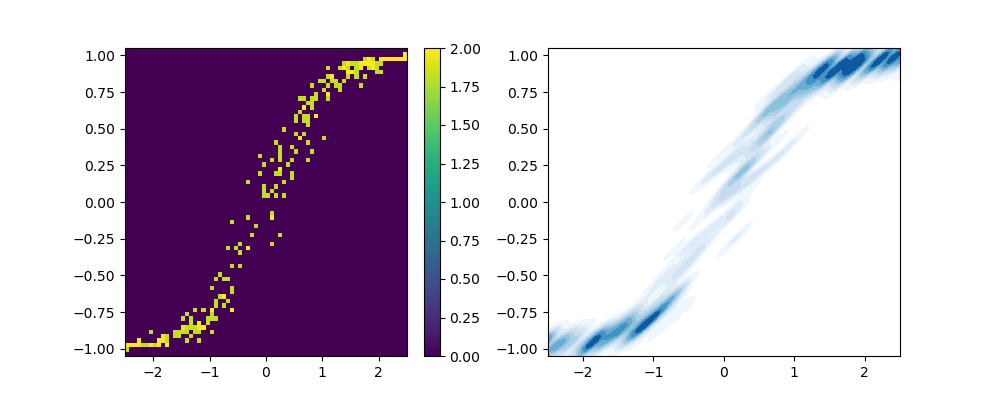
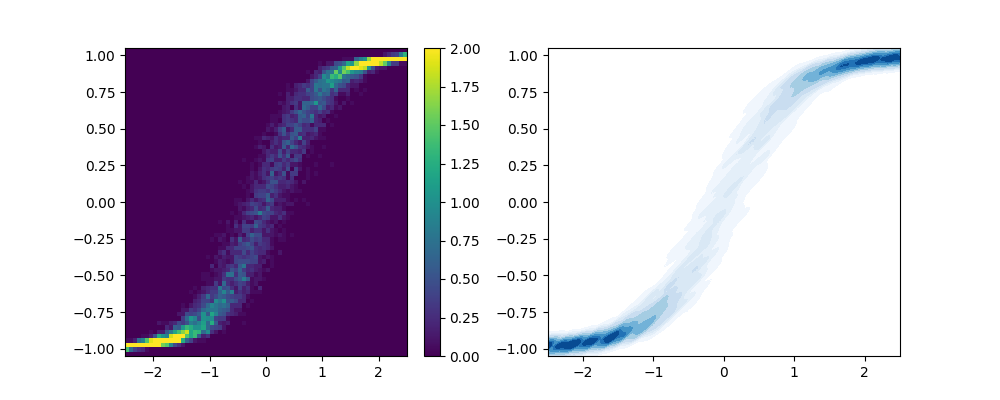
generic commit

diff --git a/scripts/transport/kvae_flow.py b/scripts/transport/kvae_flow.py
@@ -92,10 +92,10 @@ class Comp_transport_model:
         return z_mean
 
 
-    def map_var(self, x_mu, y_eta, y_mean, Lambda_var, X_var, fit_kernel):
+    def map_var(self, x_mu, y_eta, y_mean, Lambda_var, X_var, y_var, fit_kernel):
         if not self.approx:
             y_eta = shuffle(y_eta)
-        x_var = torch.concat([x_mu, y_eta, y_mean], dim=1)
+        x_var = torch.concat([x_mu, y_eta, y_mean + y_var], dim=1)
         Lambda_var = Lambda_var
 
         z_var = fit_kernel(X_var, x_var).T @ Lambda_var
@@ -121,7 +121,7 @@ class Comp_transport_model:
             y_var = 0 * y_mean
 
         z_mean = self.map_mean(x_mu, y_mean, Lambda_mean, X_mean, fit_kernel)
-        z_var = self.map_var(x_mu, y_eta, y_mean, Lambda_var, X_var,  fit_kernel)
+        z_var = self.map_var(x_mu, y_eta, y_mean, Lambda_var, X_var,  y_var, fit_kernel)
         z = z_mean + z_var
 
         y_approx = y_mean + y_var
@@ -181,7 +181,7 @@ class CondTransportKernel(nn.Module):
         if self.approx:
             self.Y_mean = geq_1d(torch.tensor(base_params['Y_mean'], device=self.device, dtype=self.dtype))
             self.Y_var = geq_1d(torch.tensor(base_params['Y_var'], device=self.device, dtype=self.dtype))
-            self.X_var = torch.concat([self.X_mu, self.Y_eta, self.Y_mean], dim=1)
+            self.X_var = torch.concat([self.X_mu, self.Y_eta, self.Y_mean + self.Y_var], dim=1)
 
         self.X_mean = torch.concat([self.X_mu, self.Y_mean], dim=1)
         self.Y_approx = self.Y_mean + self.Y_var
@@ -263,13 +263,13 @@ class CondTransportKernel(nn.Module):
         return z_mean
 
 
-    def map_var(self, x_mu, y_eta, y_mean):
+    def map_var(self, x_mu, y_eta, y_mean, y_var):
         if not self.approx:
             y_eta = shuffle(y_eta)
 
         y_mean = geq_1d(torch.tensor(y_mean, device=self.device, dtype=self.dtype))
 
-        x_var = torch.concat([x_mu, y_eta, y_mean], dim=1)
+        x_var = torch.concat([x_mu, y_eta, y_mean + y_var], dim=1)
         Lambda_var = self.get_Lambda_var()
 
         z_var = self.fit_kernel(self.X_var, x_var).T @ Lambda_var
@@ -287,7 +287,7 @@ class CondTransportKernel(nn.Module):
             y_var = 0 * y_mean
 
         z_mean = self.map_mean(x_mu, y_eta, y_mean)
-        z_var = self.map_var(x_mu, y_eta, y_mean)
+        z_var = self.map_var(x_mu, y_eta, y_mean, y_eta)
         z = z_mean + z_var
 
         y_approx = y_mean + y_var
